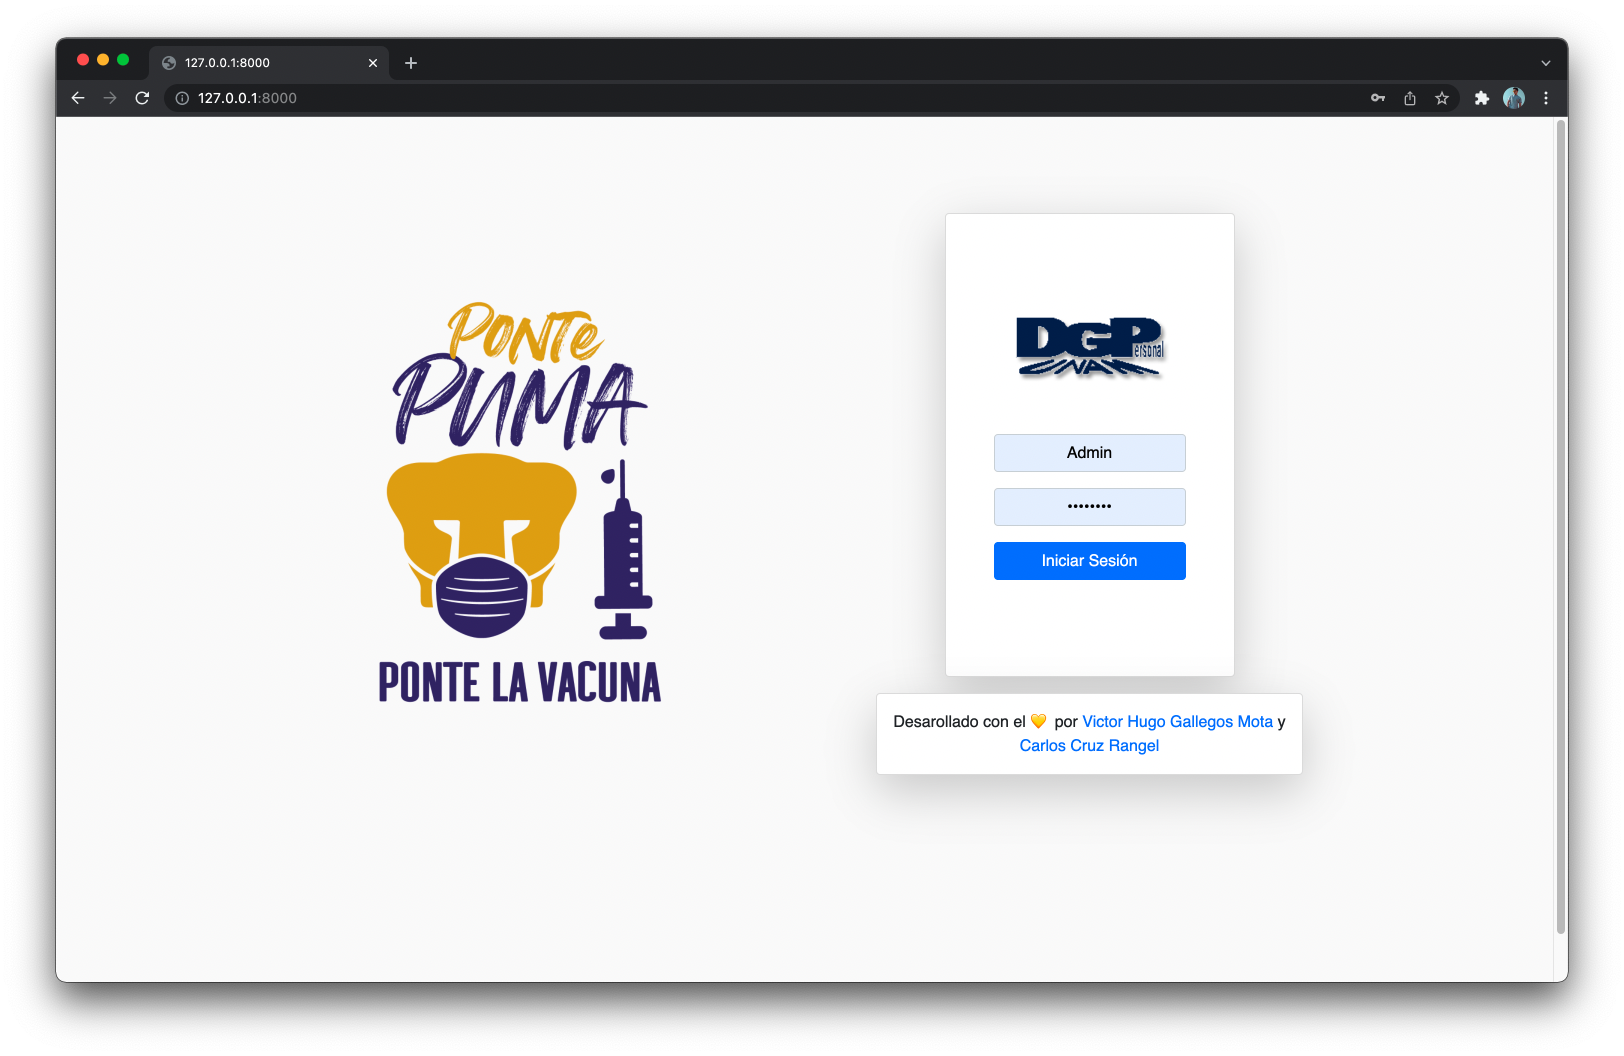
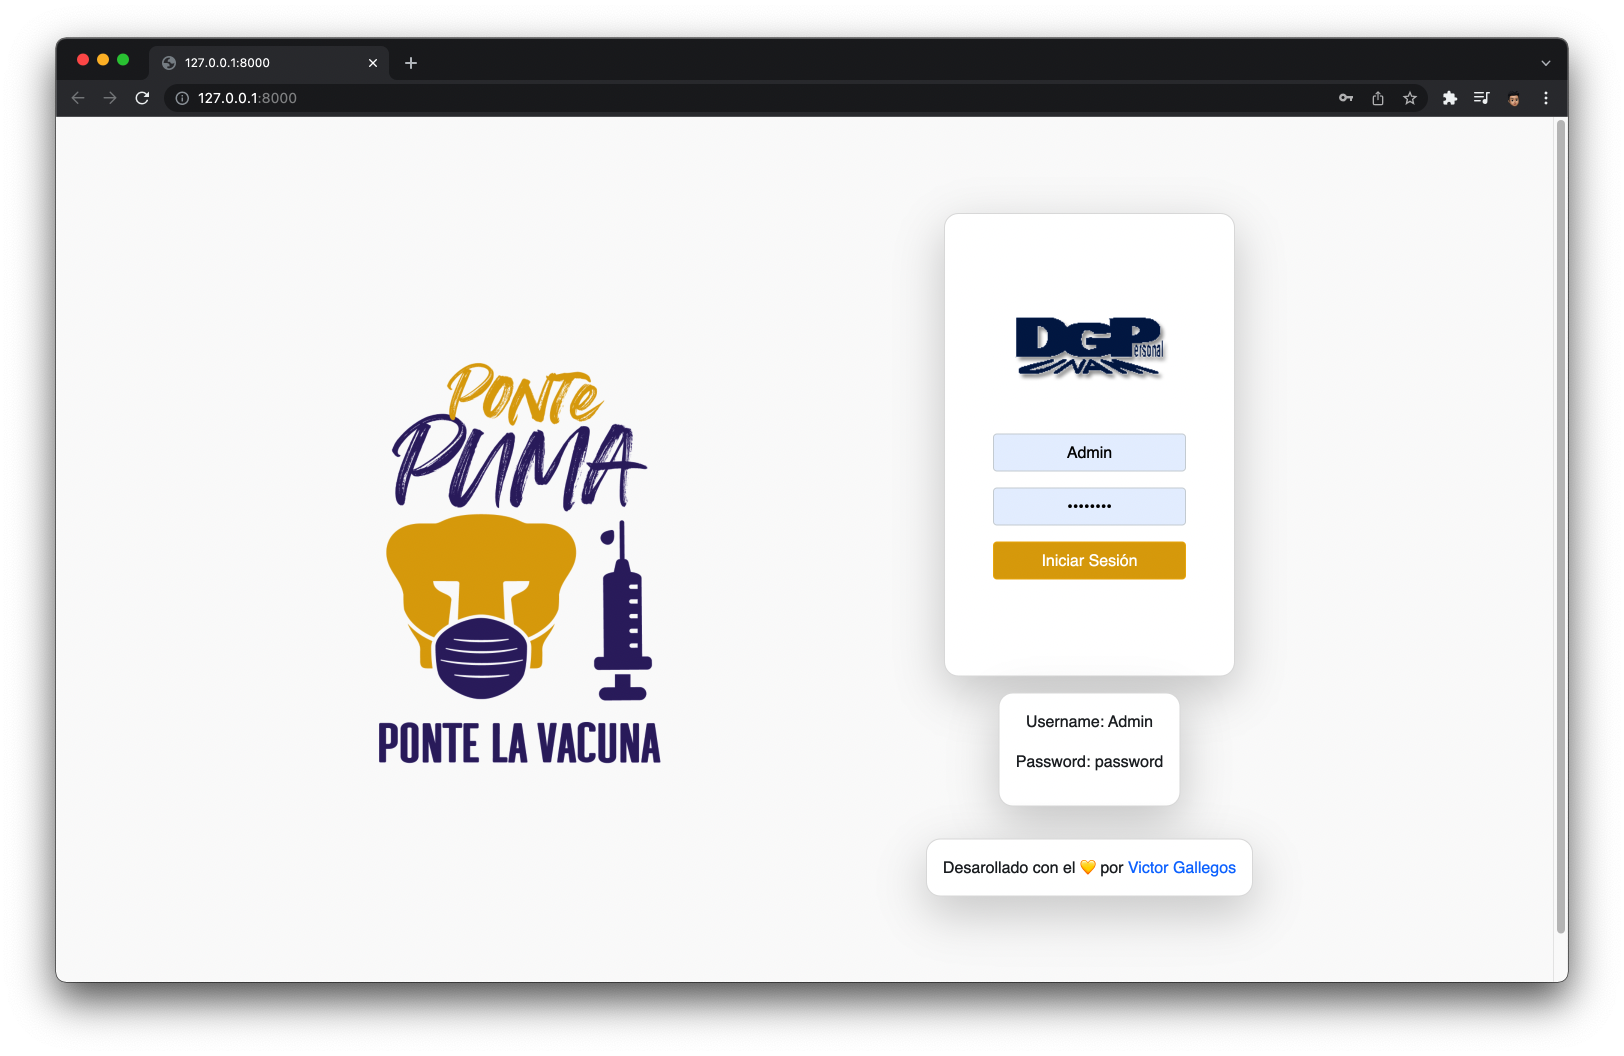
Detallando login

diff --git a/employee/employeeregister/templates/users/login.html b/employee/employeeregister/templates/users/login.html
@@ -22,17 +22,20 @@
         <div class="form-group">
           <input type="password" class="form-control text-center" name="password" placeholder="Password" />
         </div>
-        <button type="submit" class="btn btn-primary btn-block">Iniciar Sesión</button>
+        <button type="submit" class="btn btn-sesion btn-block">Iniciar Sesión</button>
       </form>
+    </div>
+
+    <div class="card w-card p-3 my-3 text-center shadow-lg">
+      <p class="text-decoration-none">Username: Admin</p>
+      <p class="text-decoration-none">Password: password</p>
     </div>
     <div class="card w-card p-3 my-3 text-center shadow-lg">
       <span
         >Desarollado con el 💛 por
-        <a class="text-decoration-none" href="https://github.com/VictorDeGallegos">Victor Hugo Gallegos Mota </a>y
+        <a class="text-decoration-none" href="https://github.com/VictorDeGallegos">Victor Gallegos </a>
       </span>
-      <span> <a class="text-decoration-none" href="https://github.com/CarlosCruzRangel">Carlos Cruz Rangel </a> </span>
     </div>
-    <div class="w-card"></div>
   </div>
 </div>
 {% endblock container %}

diff --git a/employee/static/css/bootstrap.min.css b/employee/static/css/bootstrap.min.css
@@ -2227,6 +2227,16 @@ fieldset:disabled a.btn {
   background-color: #007bff;
   border-color: #007bff;
 }
+.btn-sesion {
+  color: #fff;
+  background-color: #dea805;
+  border-color: #edb306;
+}
+.btn-sesion:hover {
+  color: #fff;
+  background-color: #f5bb0d;
+  border-color: #f5b905;
+}
 .btn-primary:hover {
   color: #fff;
   background-color: #0069d9;
@@ -3993,7 +4003,7 @@ input[type='submit'].btn-block {
   background-color: #fff;
   background-clip: border-box;
   border: 1px solid rgba(0, 0, 0, 0.125);
-  border-radius: 0.25rem;
+  border-radius: 0.9rem;
 }
 .card > hr {
   margin-right: 0;

diff --git a/README.md b/README.md
@@ -1,6 +1,6 @@
 # Registro de Empleados UNAM 💛
 
-## *Desarrollado por <a href="https://github.com/VictorDeGallegos">Victor Hugo Gallegos Mota</a>   y <a class="text-decoration-none" href="https://github.com/CarlosCruzRangel">Carlos Cruz Rangel </a>*
+## *Desarrollado por <a href="https://github.com/VictorDeGallegos">Victor Gallegos </a>*
 <h2>App que simula el registro de usuarios de la UNAM desarrollada en Django </h2>
 <hr>
 <ul>
